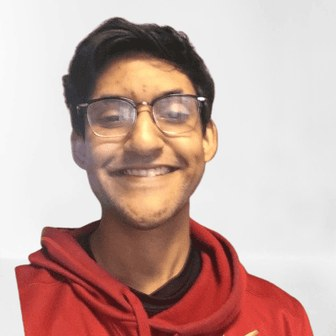
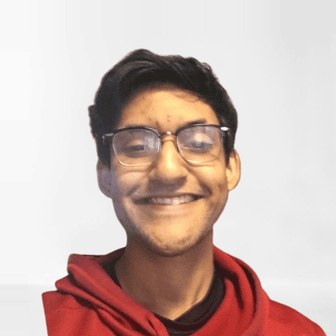
Fix Indrajeet's headroom by extending the backdrop
His hair starts 20px from the top of a 400px source, so the ideal crop ran
39px above the image and the clamp left his face at 38% down the frame
while everyone else sat at 47%.

Where the edge a crop would run past is plain backdrop, extend it by
replication and keep the head centred; where it is not, fall back to the
old clamp so a shoulder or wall never gets smeared. Guarded on the border
ring being 90% backdrop and the pad staying under 15% of the crop, which
is why only Indrajeet changes - the other five regenerate byte-identically.

diff --git a/assets/img/members/originals/crop_members.py b/assets/img/members/originals/crop_members.py
@@ -31,6 +31,16 @@ TARGET_FACE_RATIO = 0.47   # face width as a fraction of the square
 FACE_CENTER_Y = 0.47       # where the face centre sits vertically in the square
 SIZE = 336                 # output pixels (84px avatar at 4x)
 
+# Some sources are framed so tightly that the ideal crop runs off the edge --
+# Indrajeet's hair starts 20px from the top, leaving no headroom to give him.
+# Where the edge we would run past is plain backdrop, we can extend it and keep
+# the head properly centred. Where it is not (a shoulder, a wall), extending
+# would smear real content, so we fall back to clamping the crop inside the
+# image and accept the off-centre framing.
+BACKDROP_TOL = 26       # per-channel distance that still counts as backdrop
+BACKDROP_MIN = 0.90     # fraction of an edge that must be backdrop to extend it
+MAX_PAD = 0.15          # never invent more than this fraction of the crop
+
 cascade = cv2.CascadeClassifier(
     cv2.data.haarcascades + "haarcascade_frontalface_default.xml"
 )
@@ -48,13 +58,49 @@ def largest_face(rgb):
     return max(faces, key=lambda r: r[2] * r[3])
 
 
+def backdrop_color(arr):
+    """Median of the one-pixel border ring, robust to a subject touching it."""
+    ring = np.concatenate([arr[0], arr[-1], arr[:, 0], arr[:, -1]])
+    return np.median(ring, axis=0)
+
+
+def is_backdrop(line, bg):
+    return (np.abs(line.astype(int) - bg).max(axis=1)
+            <= BACKDROP_TOL).mean() >= BACKDROP_MIN
+
+
 for name, src in MEMBERS.items():
     im = ImageOps.exif_transpose(Image.open(os.path.join(IMG, src))).convert("RGB")
+    arr = np.array(im)
     w, h = im.size
-    fx, fy, fw, fh = largest_face(np.array(im))
+    fx, fy, fw, fh = largest_face(arr)
     cx, cy = fx + fw / 2, fy + fh / 2
 
-    side = min(fw / TARGET_FACE_RATIO, w, h)
+    side = fw / TARGET_FACE_RATIO
+    pad = {
+        "top": max(0.0, side * FACE_CENTER_Y - cy),
+        "bottom": max(0.0, cy + side * (1 - FACE_CENTER_Y) - h),
+        "left": max(0.0, side / 2 - cx),
+        "right": max(0.0, cx + side / 2 - w),
+    }
+    edges = {"top": arr[0], "bottom": arr[-1],
+             "left": arr[:, 0], "right": arr[:, -1]}
+    bg = backdrop_color(arr)
+    wanted = {k: v for k, v in pad.items() if v > 0.5}
+    extend = (wanted
+              and max(wanted.values()) <= side * MAX_PAD
+              and all(is_backdrop(edges[k], bg) for k in wanted))
+
+    if extend:
+        t, b = int(np.ceil(pad["top"])), int(np.ceil(pad["bottom"]))
+        l, r = int(np.ceil(pad["left"])), int(np.ceil(pad["right"]))
+        arr = cv2.copyMakeBorder(arr, t, b, l, r, cv2.BORDER_REPLICATE)
+        im = Image.fromarray(arr)
+        cx, cy = cx + l, cy + t
+        w, h = im.size
+    else:
+        side = min(side, w, h)
+
     x0 = min(max(cx - side / 2, 0), w - side)
     y0 = min(max(cy - side * FACE_CENTER_Y, 0), h - side)
 
@@ -62,5 +108,8 @@ for name, src in MEMBERS.items():
     crop = crop.resize((SIZE, SIZE), Image.LANCZOS)
     crop.save(os.path.join(OUT, name + ".jpg"), "JPEG", quality=88,
               optimize=True, progressive=True)
-    print(f"{name:16s} src {w}x{h} face {fw}px -> side {side:.0f} "
-          f"(face {fw / side:.0%} of frame)")
+    note = ("backdrop extended " + ", ".join(f"{k} {v:.0f}px"
+            for k, v in sorted(wanted.items())) if extend else
+            "clamped" if wanted else "fits")
+    print(f"{name:16s} face {fw / side:.0%} of frame, "
+          f"eyes at {(cy - y0) / side:.0%} down  [{note}]")
